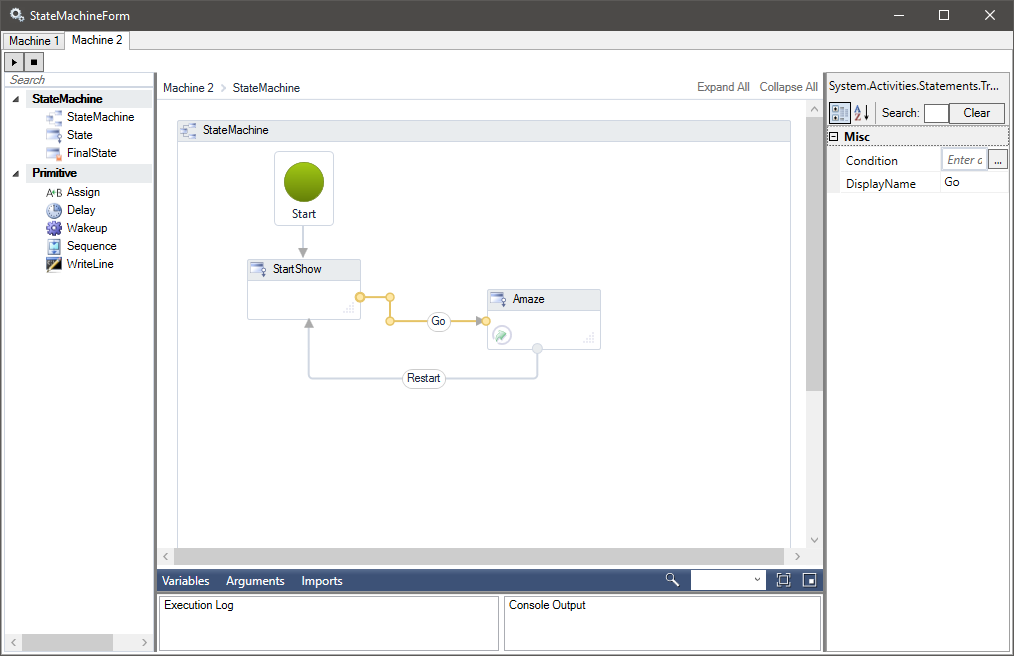
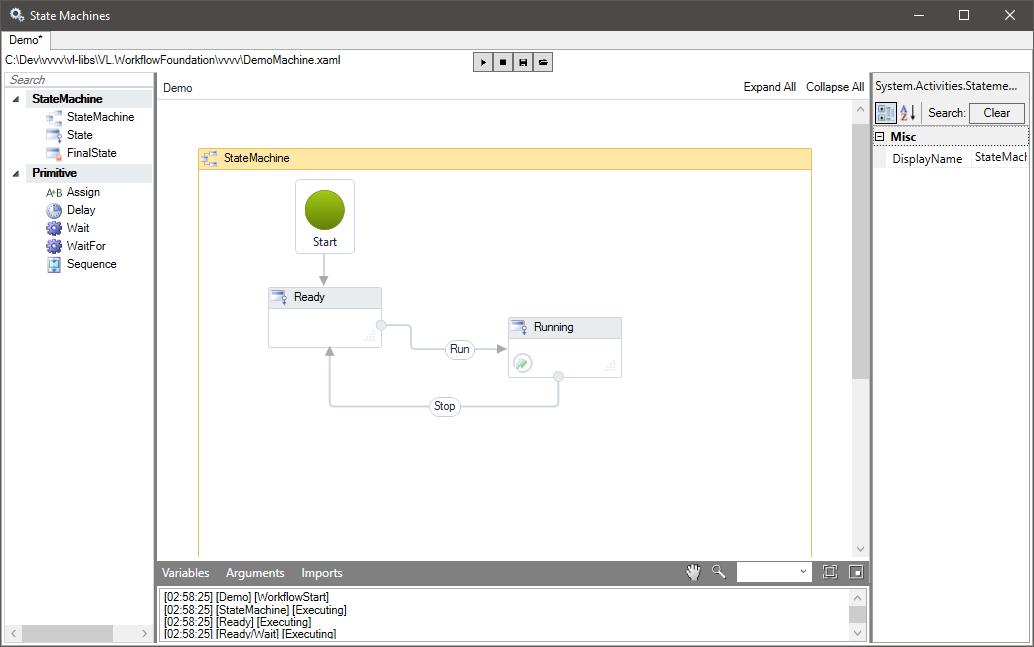
updated readme and screen shots

diff --git a/Readme.md b/Readme.md
@@ -1,25 +1,27 @@
 # VL.WorkflowFoundation #
 
-![Alt text](https://github.com/tebjan/VL.WorkflowFoundation/blob/master/screenshot.png?raw=true "Rehosted Workflow Designer")
+![Rehosted Workflow Designer](https://github.com/tebjan/VL.WorkflowFoundation/blob/master/screenshot.png?raw=true "Rehosted Workflow Designer")
 
 The repository contains:
-
-## VL Nodes ##
-* StateMachine instance as process node
-* SendMessage to trigger statemachine transitions
-* State to get info and notifications from a selected state
 
 ## Workflow Designer ##
 * Workflow Designer - Rehosting in one Form with one tab per state machine
 * ToolboxControl - Selected for working with state machines
 * Workflow Execution - Retrieve real-time Execution Log (TrackData) and Execution Output(s)
 * Workflow Management - Store to file / Run / Stop
-* Nested State Machines - Build state machine hierachies (!)
+* Nested State Machines - Build state machine hierachies
+* IStateMachineControl - Interface to control a state machine by code
 
 ## Custom Activities ##
-* Wakeup - Waits for a message to trigger transitions
+* Wait - Waits for a message with name of parent transition, must be placed in the "Trigger" of a transition
+* WaitFor - Waits for a given message, can be placed anywhere
 
-***
+## VL Nodes ##
+* StateMachine instance as process node
+* SendMessage to trigger statemachine transitions
+* State to get info and notifications from a selected state
+
+![Patch With State Machine](https://github.com/tebjan/VL.WorkflowFoundation/blob/master/patch.png?raw=true "Patch With State Machine")
 
 ## Links ##
 These links are from the original author who released the rehosting sample project, thanks!
@@ -29,8 +31,7 @@ These links are from the original author who released the rehosting sample proje
 * Project Showcased at [Microsoft Summit 2015](http://andreioros.com/blog/workflow-foundation-microsoft-summit/#more-92) & [Timisoara .NET Meetup 2](http://www.meetup.com/Timisoara-NET-Meetup/events/186254642/)
 * Twitter [@orosandrei](http://twitter.com/orosandrei)
 
-***
-
+## Credits ##
 * MSDN [Windows Workflow Foundation](http://msdn.microsoft.com/en-us/library/dd489441(v=vs.110).aspx)
 * MSDN [What's new in WF 4.5](https://msdn.microsoft.com/en-us/library/hh305677.aspx)
 * [Roslyn C# Expression Editor](https://github.com/dmetzgar/wf-rehost-roslyn)
